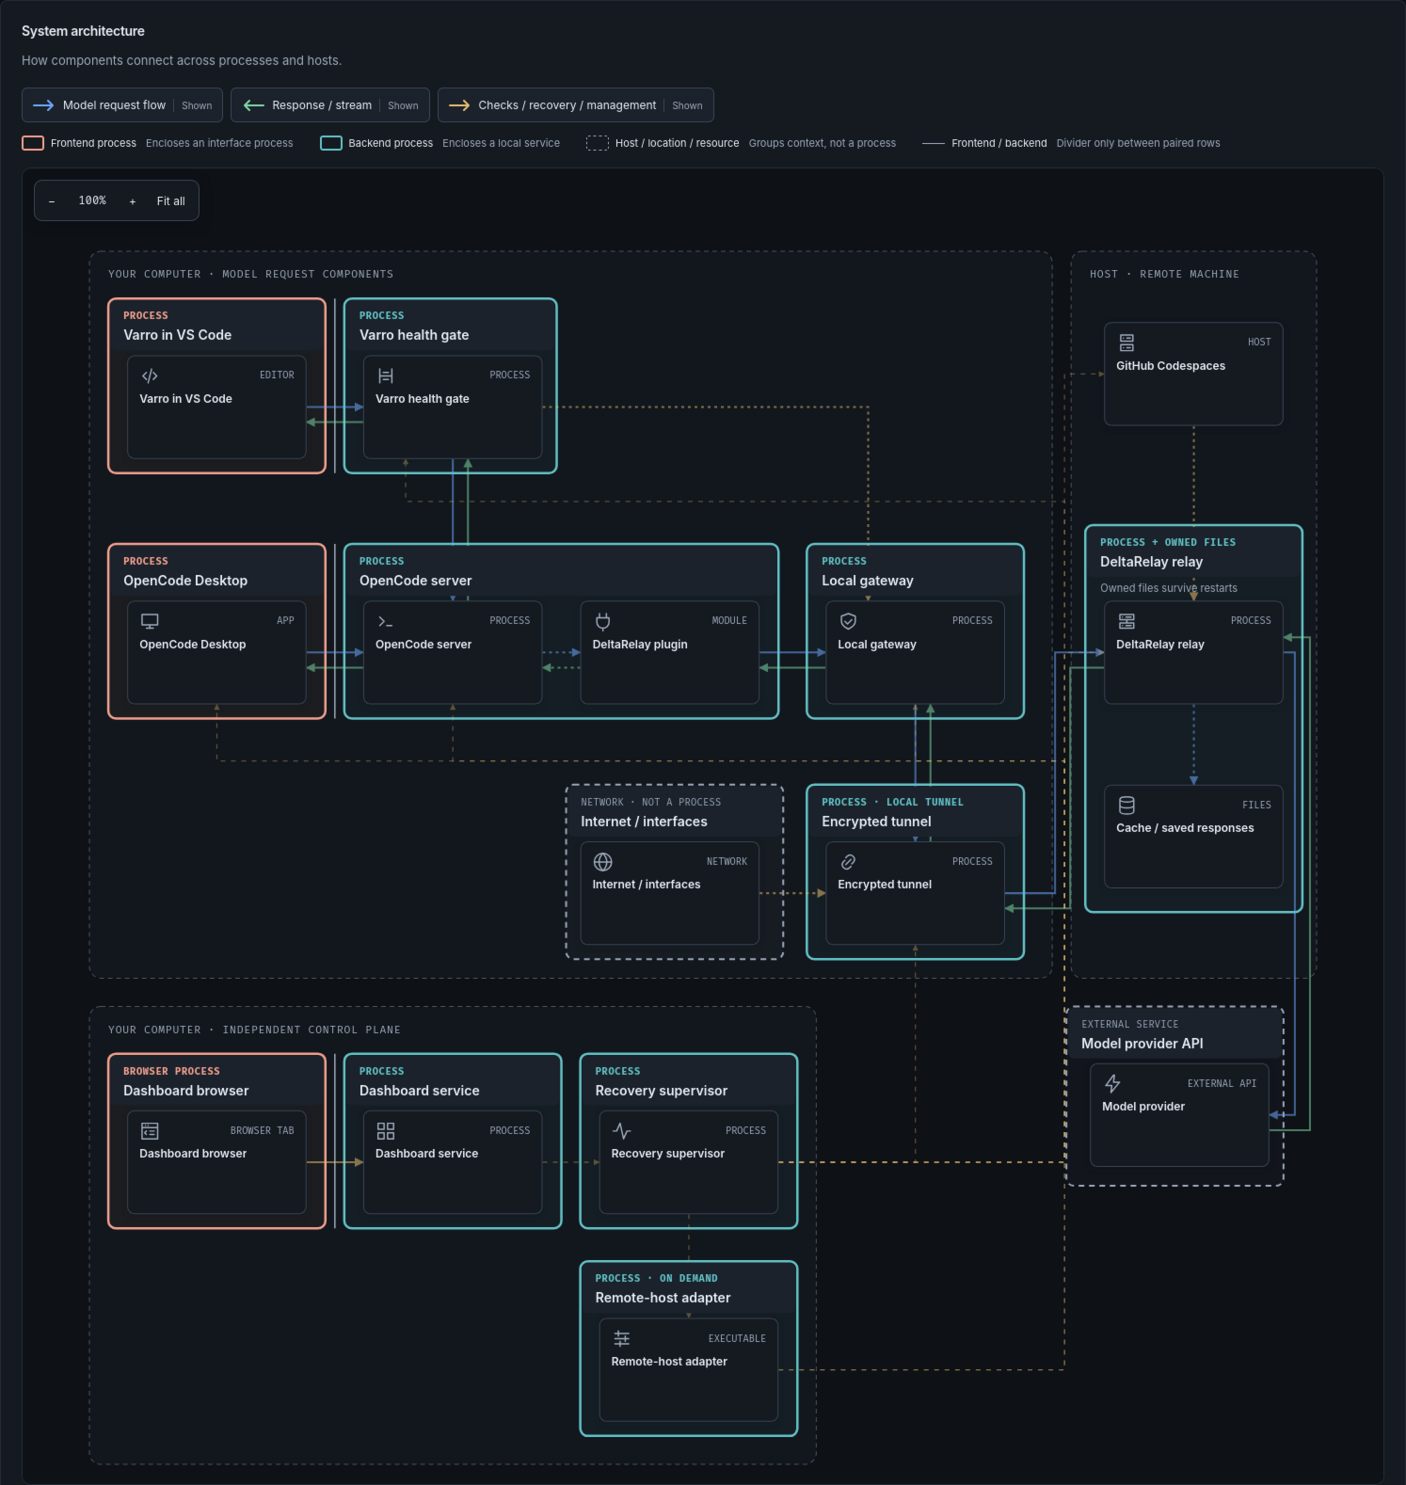
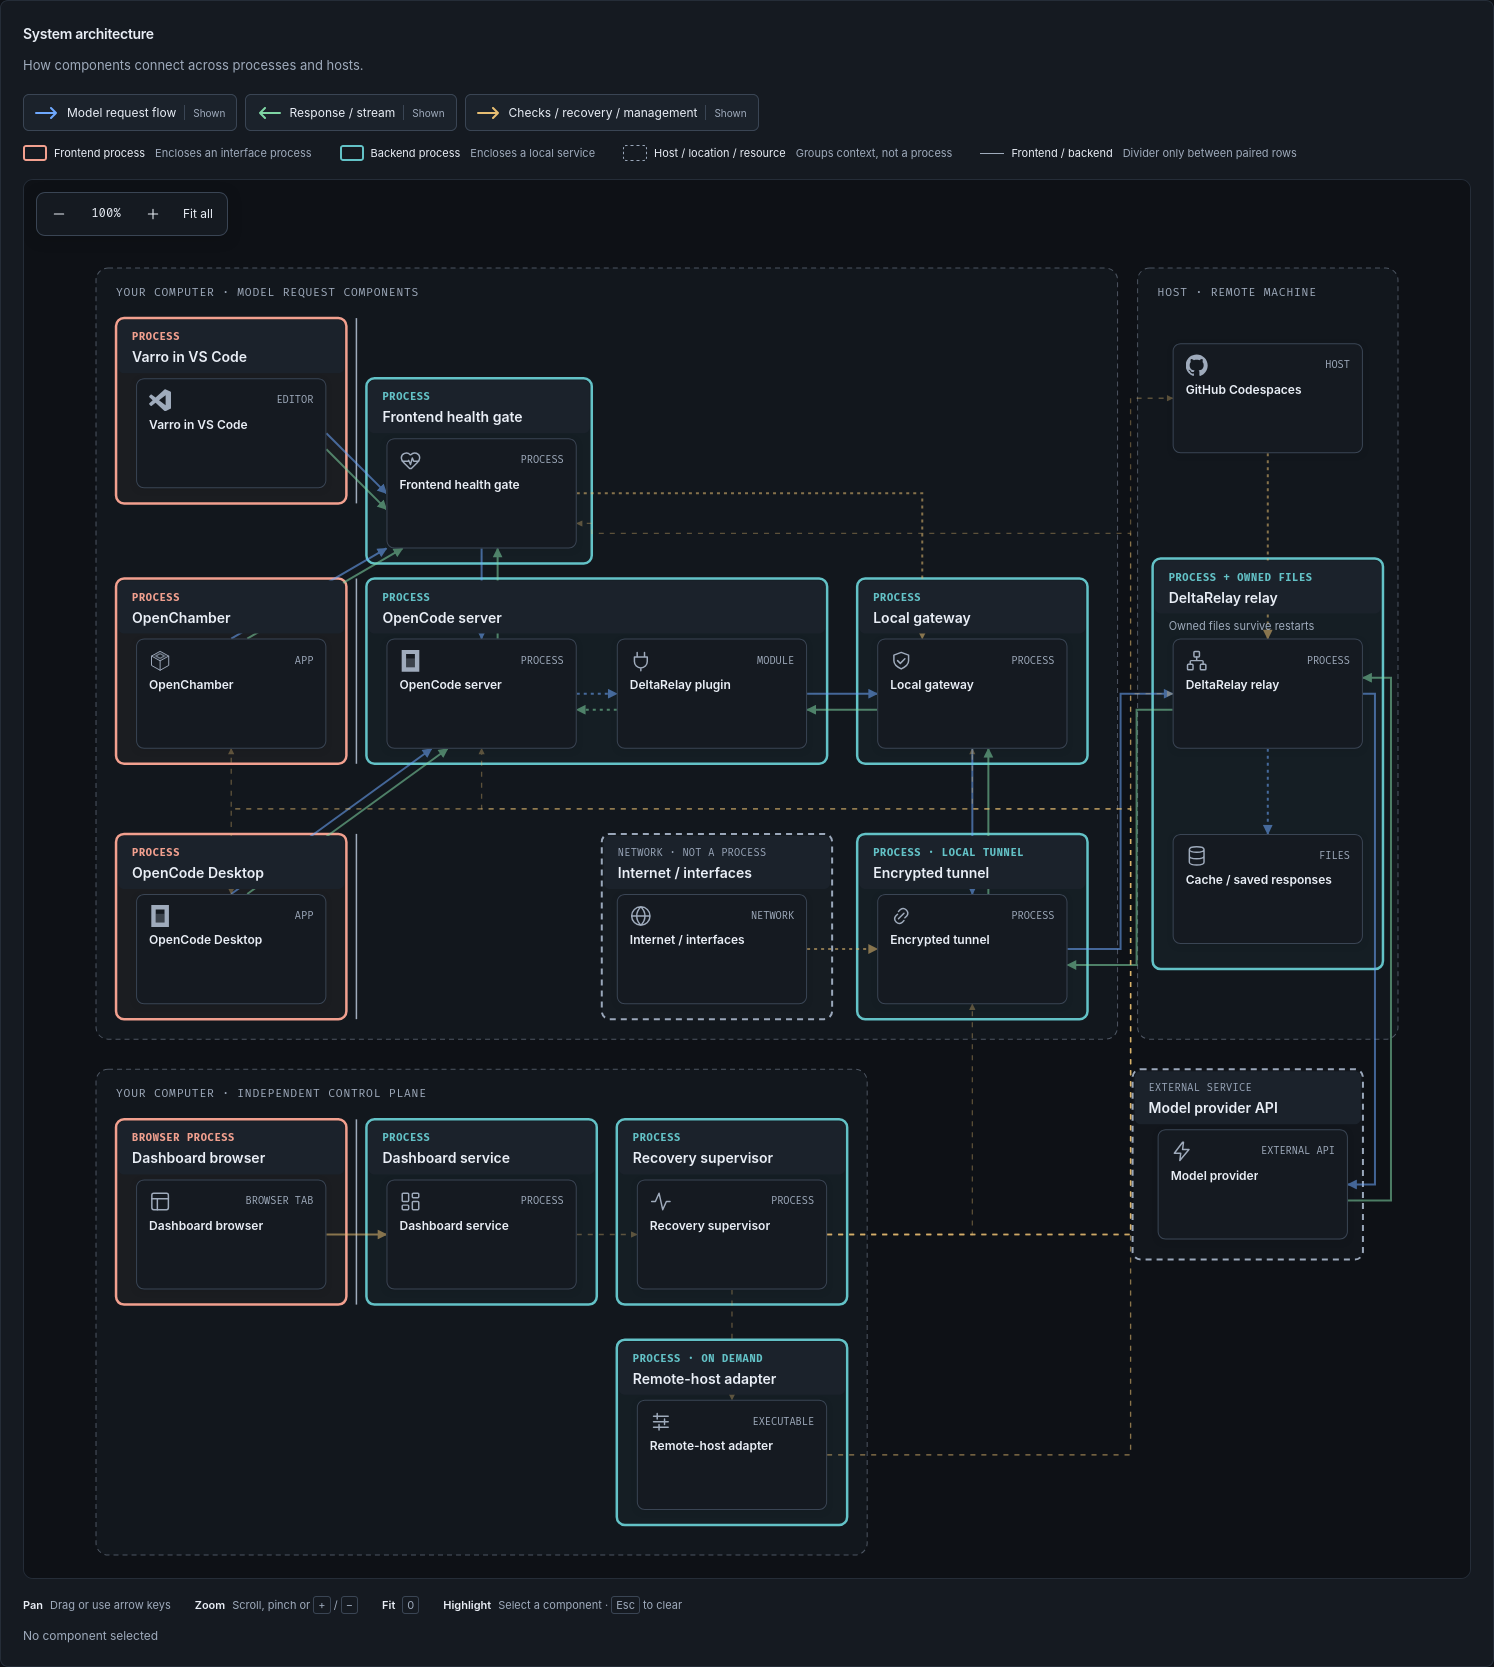
dashboard: place OpenChamber at the health gate
Move OpenChamber into the second frontend row and OpenCode Desktop into the third. Drop the gate 60px so Varro and OpenChamber form the two diagonal attach arrows into it, and reroute the supervisor/check lanes around the new positions. Refresh the architecture capture and update the map path tests for diagonals.

diff --git a/web/src/lib/topology-layout.ts b/web/src/lib/topology-layout.ts
@@ -8,11 +8,11 @@ export const nodeWidth = 190
 export const nodeHeight = 110
 export const mapNodes: { id: NodeID; label: string; icon: import("./icons.js").IconName; role: string; x: number; y: number }[] = [
   { id: "vscode", label: "Varro in VS Code", icon: "vscode", role: "Editor", x: 55, y: 130 },
-  { id: "desktop", label: "OpenCode Desktop", icon: "opencode", role: "App", x: 55, y: 390 },
-  { id: "openchamber", label: "OpenChamber", icon: "openchamber", role: "App", x: 55, y: 645 },
+  { id: "openchamber", label: "OpenChamber", icon: "openchamber", role: "App", x: 55, y: 390 },
+  { id: "desktop", label: "OpenCode Desktop", icon: "opencode", role: "App", x: 55, y: 645 },
   { id: "opencode", label: "OpenCode server", icon: "opencode", role: "Process", x: 305, y: 390 },
   { id: "plugin", label: "DeltaRelay plugin", icon: "plugin", role: "Module", x: 535, y: 390 },
-  { id: "gate", label: "Frontend health gate", icon: "gate", role: "Process", x: 305, y: 130 },
+  { id: "gate", label: "Frontend health gate", icon: "gate", role: "Process", x: 305, y: 190 },
   { id: "gateway", label: "Local gateway", icon: "shield", role: "Process", x: 795, y: 390 },
   { id: "network", label: "Internet / interfaces", icon: "globe", role: "Network", x: 535, y: 645 },
   { id: "tunnel", label: "Connection transport", icon: "link", role: "Transport", x: 795, y: 645 },
@@ -64,11 +64,11 @@ export interface MapBoundary extends BoundaryPresentation {
 // the supervisor manages other processes, but does not contain them.
 export const mapBoundaries: MapBoundary[] = [
   { id: "vscode", kind: "process", label: "PROCESS", title: "Varro in VS Code", detail: "Editor process opened on request. The supervisor never starts it automatically, restarts it, or observes it.", side: "frontend", members: ["vscode"], x: 35, y: 70, width: 230, height: 185 },
-  { id: "desktop", kind: "process", label: "PROCESS", title: "OpenCode Desktop", detail: "Desktop application, separate from the OpenCode server.", side: "frontend", members: ["desktop"], x: 35, y: 330, width: 230, height: 185 },
-  { id: "openchamber", kind: "process", label: "PROCESS", title: "OpenChamber", detail: "Frontend process. Attaches to the shared OpenCode service only through the frontend health gate; attachment is not independently observed.", side: "frontend", members: ["openchamber"], x: 35, y: 585, width: 230, height: 185 },
+  { id: "desktop", kind: "process", label: "PROCESS", title: "OpenCode Desktop", detail: "Desktop application, separate from the OpenCode server.", side: "frontend", members: ["desktop"], x: 35, y: 585, width: 230, height: 185 },
+  { id: "openchamber", kind: "process", label: "PROCESS", title: "OpenChamber", detail: "Frontend process. Attaches to the shared OpenCode service only through the frontend health gate; attachment is not independently observed.", side: "frontend", members: ["openchamber"], x: 35, y: 330, width: 230, height: 185 },
   { id: "opencode", kind: "process", label: "PROCESS", title: "OpenCode server", detail: "The DeltaRelay plugin is loaded inside the OpenCode server process, not a separate process.", side: "backend", members: ["opencode", "plugin"], x: 285, y: 330, width: 460, height: 185 },
   { id: "gateway", kind: "process", label: "PROCESS", title: "Local gateway", detail: "Local authenticated HTTP gateway process.", side: "backend", members: ["gateway"], x: 775, y: 330, width: 230, height: 185 },
-  { id: "gate", kind: "process", label: "PROCESS", title: "Frontend health gate", detail: "Supervised loopback health gate. It never owns or restarts the shared OpenCode service.", side: "backend", members: ["gate"], x: 285, y: 70, width: 225, height: 185 },
+  { id: "gate", kind: "process", label: "PROCESS", title: "Frontend health gate", detail: "Supervised loopback health gate. It never owns or restarts the shared OpenCode service.", side: "backend", members: ["gate"], x: 285, y: 130, width: 225, height: 185 },
   { id: "network", kind: "network", label: "NETWORK · NOT A PROCESS", title: "Internet / interfaces", detail: "Interfaces, routes and connectivity are prerequisites, not a relay process.", members: ["network"], x: 520, y: 585, width: 230, height: 185 },
   { id: "tunnel", ...transportBoundary(), side: "backend", members: ["tunnel"], x: 775, y: 585, width: 230, height: 185 },
   { id: "relay", kind: "process", label: "PROCESS + OWNED FILES", title: "DeltaRelay relay", detail: "The relay process owns the cache and saved-response files. These are persistent files, not a separate process, and survive process restarts.", note: "Owned files survive restarts", side: "backend", members: ["relay", "storage"], x: 1070, y: 310, width: 230, height: 410 },
@@ -104,13 +104,26 @@ export function edgePath(source: NodeID, target: NodeID): string {
   // Management links use the open lanes between boundaries, rather than
   // crossing unrelated process/component cards on the way to their targets.
   if (source === "supervisor") {
-    // The gate sits in the top row: reach it from the right-hand bus and the
-    // lane above the second row, entering left of its data link to OpenCode.
-    if (target === "gate") return `M${a.x + nodeWidth},${ay} H1048 V285 H350 V${b.y + nodeHeight}`
-    if (target === "openchamber") return `M${a.x + nodeWidth},${ay} H1048 V560 H150 V${b.y}`
+    // The gate sits in the top row: reach it from the right-hand bus and enter
+    // its right edge, clear of the attach fan and the gateway check lane.
+    if (target === "gate") return `M${a.x + nodeWidth},${ay} H1048 V285 H510 V275 H495`
+    // OpenChamber is the second-row attach frontend; Desktop is the third-row
+    // direct client. Enter the former from below and the latter from above.
+    if (target === "openchamber") return `M${a.x + nodeWidth},${ay} H1048 V560 H150 V${b.y + nodeHeight}`
+    if (target === "desktop") return `M${a.x + nodeWidth},${ay} H1048 V560 H150 V${b.y}`
     // A shared management lane between the second and third local component rows.
-    if (target === "desktop" || target === "opencode" || target === "gateway") return `M${a.x + nodeWidth},${ay} H1048 V560 H${bx} V${b.y + nodeHeight}`
+    if (target === "opencode" || target === "gateway") return `M${a.x + nodeWidth},${ay} H1048 V560 H${bx} V${b.y + nodeHeight}`
     if (target === "tunnel") return `M${a.x + nodeWidth},${ay} H890 V${b.y + nodeHeight}`
+  }
+  if (source === "vscode" && target === "gate") {
+    // Both attach-only frontends feed the gate: Varro steps down from the row
+    // above and OpenChamber steps up from the row below.
+    return `M${a.x + nodeWidth},${a.y + nodeHeight / 2} L${b.x},${b.y + nodeHeight / 2}`
+  }
+  if (source === "desktop" && target === "opencode") {
+    // Desktop keeps its direct server path as a diagonal below OpenChamber,
+    // instead of sharing the attach frontends' lane.
+    return `M${a.x + nodeWidth / 2},${a.y} L${b.x + 45},${b.y + nodeHeight}`
   }
   if (source === "gate" && target === "gateway") {
     // Health/check dependency, not a model-data hop: cross the open top row and
@@ -118,9 +131,9 @@ export function edgePath(source: NodeID, target: NodeID): string {
     return `M${a.x + nodeWidth},${ay} H840 V${b.y}`
   }
   if (source === "openchamber" && target === "gate") {
-    // The frontend attaches through the shared gate: climb the frontend/backend
-    // divider and enter the gate from below, clear of the editor attach link.
-    return `M${a.x + nodeWidth},${ay} H265 V300 H350 V${b.y + nodeHeight}`
+    // OpenChamber climbs into the gate from below-left, forming the second
+    // diagonal of the attach fan.
+    return `M${a.x + nodeWidth / 2},${a.y} L${b.x},${b.y + nodeHeight}`
   }
   if (source === "tunnel" && target === "relay") {
     // The relay is one row above the transport: climb the gap between the local
@@ -164,10 +177,17 @@ export function responsePath(source: NodeID, target: NodeID): string {
     // and the relay-owned cache files stay clear.
     return `M${a.x + nodeWidth},${a.y + nodeHeight / 2 + lane} H1308 V${b.y + nodeHeight / 2 - lane} H${b.x + nodeWidth}`
   }
+  if (source === "vscode" && target === "gate") {
+    // Return beside the attach diagonal, entering Varro from its right edge.
+    return `M${b.x + nodeWidth},${b.y + nodeHeight / 2 + lane} L${a.x},${a.y + nodeHeight / 2 + lane}`
+  }
+  if (source === "desktop" && target === "opencode") {
+    // Return beside the direct-to-server diagonal, clear of OpenChamber above.
+    return `M${b.x + nodeWidth / 2 + lane},${b.y} L${a.x + 45 + lane},${a.y + nodeHeight}`
+  }
   if (source === "openchamber" && target === "gate") {
-    // Return beside the attach route, following the divider before entering the
-    // frontend from its right edge.
-    return `M${a.x + nodeWidth / 2 + lane},${a.y + nodeHeight} V301 H281 V${b.y + nodeHeight / 2 + lane} H${b.x + nodeWidth}`
+    // Return beside the attach diagonal, entering the gate's lower edge.
+    return `M${b.x + nodeWidth / 2 + lane},${b.y} L${a.x + lane},${a.y + nodeHeight}`
   }
   if (a.y === b.y) return a.x < b.x
     ? `M${a.x + nodeWidth},${ay} H${b.x}`

diff --git a/web/test/topology.test.ts b/web/test/topology.test.ts
@@ -85,7 +85,7 @@ test("transport boundaries describe configured processes versus paths, not readi
 })
 
 test("aligned connection arrows attach to the facing sides in both directions", () => {
-  for (const [source, target] of [["desktop", "opencode"], ["opencode", "desktop"], ["relay", "storage"], ["storage", "relay"]] as const) {
+  for (const [source, target] of [["gate", "opencode"], ["opencode", "gate"], ["relay", "storage"], ["storage", "relay"]] as const) {
     const a = mapNodes.find((node) => node.id === source)!, b = mapNodes.find((node) => node.id === target)!
     const expected = a.y === b.y
       ? `M${a.x + (a.x < b.x ? nodeWidth : 0)},${a.y + nodeHeight / 2} H${b.x + (a.x > b.x ? nodeWidth : 0)}`
@@ -117,7 +117,7 @@ test("OpenChamber is a supervised frontend that attaches only through the shared
   assert.equal(edgeChannel(manage), "control")
 
   const mapped = mapNodes.find((item) => item.id === "openchamber")!
-  assert.deepEqual(mapped, { id: "openchamber", label: "OpenChamber", icon: "openchamber", role: "App", x: 55, y: 645 })
+  assert.deepEqual(mapped, { id: "openchamber", label: "OpenChamber", icon: "openchamber", role: "App", x: 55, y: 390 })
   const boundary = mapBoundaries.find((item) => item.id === "openchamber")!
   assert.equal(boundary.kind, "process")
   assert.equal(boundary.side, "frontend")
@@ -128,7 +128,7 @@ test("OpenChamber is a supervised frontend that attaches only through the shared
 test("frontend divider only spans rows where a frontend sits beside a backend", () => {
   const dividerX = 275
   for (const segment of mapLayerSegments) {
-    const row = mapBoundaries.filter((boundary) => boundary.y === segment.y1 && boundary.y + boundary.height === segment.y2)
+    const row = mapBoundaries.filter((boundary) => boundary.y < segment.y2 && boundary.y + boundary.height > segment.y1)
     assert.ok(row.some((boundary) => boundary.x + boundary.width <= dividerX), `${segment.y1}: frontend side`)
     assert.ok(row.some((boundary) => boundary.x >= dividerX), `${segment.y1}: backend side`)
   }
@@ -158,34 +158,60 @@ test("reflowed map keeps every node, region and routed lane inside its bounds wi
   const value = readContract("topology-v1.json")
   assert.ok(isTopology(value))
   for (const edge of value.edges) {
-    for (const command of edgePath(edge.source, edge.target).matchAll(/([MHV])([\d.]+)(?:,([\d.]+))?/g)) {
-      const x = command[1] === "V" ? null : Number(command[2])
-      const y = command[1] === "H" ? null : Number(command[1] === "M" ? command[3] : command[2])
+    for (const command of edgePath(edge.source, edge.target).matchAll(/([MHVL])([\d.]+)(?:,([\d.]+))?/g)) {
+      const type = command[1]
+      const x = type === "V" ? null : Number(command[2])
+      const y = type === "H" ? null : Number(type === "M" || type === "L" ? command[3] : command[2])
       if (x !== null) assert.ok(x >= 0 && x <= mapWidth, `${edge.id} x=${x}`)
       if (y !== null) assert.ok(y >= 0 && y <= mapHeight, `${edge.id} y=${y}`)
     }
   }
-  assert.equal(edgePath("vscode", "gate"), `M${55 + nodeWidth},${130 + nodeHeight / 2} H305`)
-  assert.equal(edgePath("gate", "opencode"), `M${305 + nodeWidth / 2},${130 + nodeHeight} V390`)
-  assert.equal(edgePath("gate", "gateway"), `M${305 + nodeWidth},${130 + nodeHeight / 2} H840 V390`)
-  assert.equal(edgePath("supervisor", "gate"), `M${555 + nodeWidth},${930 + nodeHeight / 2} H1048 V285 H350 V${130 + nodeHeight}`)
-  assert.equal(edgePath("supervisor", "openchamber"), `M${555 + nodeWidth},${930 + nodeHeight / 2} H1048 V560 H150 V645`)
-  assert.equal(edgePath("openchamber", "gate"), `M${55 + nodeWidth},${645 + nodeHeight / 2} H265 V300 H350 V${130 + nodeHeight}`)
-  assert.equal(responsePath("openchamber", "gate"), `M${305 + nodeWidth / 2 + 16},${130 + nodeHeight} V301 H281 V${645 + nodeHeight / 2 + 16} H${55 + nodeWidth}`)
+  assert.equal(edgePath("vscode", "gate"), `M${55 + nodeWidth},${130 + nodeHeight / 2} L305,${190 + nodeHeight / 2}`)
+  assert.equal(edgePath("gate", "opencode"), `M${305 + nodeWidth / 2},${190 + nodeHeight} V390`)
+  assert.equal(edgePath("gate", "gateway"), `M${305 + nodeWidth},${190 + nodeHeight / 2} H840 V390`)
+  assert.equal(edgePath("supervisor", "gate"), `M${555 + nodeWidth},${930 + nodeHeight / 2} H1048 V285 H510 V275 H495`)
+  assert.equal(edgePath("supervisor", "openchamber"), `M${555 + nodeWidth},${930 + nodeHeight / 2} H1048 V560 H150 V${390 + nodeHeight}`)
+  assert.equal(edgePath("supervisor", "desktop"), `M${555 + nodeWidth},${930 + nodeHeight / 2} H1048 V560 H150 V645`)
+  assert.equal(edgePath("openchamber", "gate"), `M${55 + nodeWidth / 2},390 L305,${190 + nodeHeight}`)
+  assert.equal(edgePath("desktop", "opencode"), `M${55 + nodeWidth / 2},645 L${305 + 45},${390 + nodeHeight}`)
+  assert.equal(responsePath("vscode", "gate"), `M${55 + nodeWidth},${130 + nodeHeight / 2 + 16} L305,${190 + nodeHeight / 2 + 16}`)
+  assert.equal(responsePath("openchamber", "gate"), `M${55 + nodeWidth / 2 + 16},390 L${305 + 16},${190 + nodeHeight}`)
+  assert.equal(responsePath("desktop", "opencode"), `M${55 + nodeWidth / 2 + 16},645 L${305 + 45 + 16},${390 + nodeHeight}`)
 })
 
 test("map arrows never cross unrelated component cards or process boundaries", () => {
   const value = readContract("topology-v1.json")
   assert.ok(isTopology(value))
   type Point = { x: number; y: number }
-  const crosses = (a: Point, b: Point, rect: { x: number; y: number; width: number; height: number }) => a.x === b.x
-    ? a.x > rect.x && a.x < rect.x + rect.width && Math.max(a.y, b.y) > rect.y && Math.min(a.y, b.y) < rect.y + rect.height
-    : a.y > rect.y && a.y < rect.y + rect.height && Math.max(a.x, b.x) > rect.x && Math.min(a.x, b.x) < rect.x + rect.width
+  // Liang–Barsky segment/AABB clip; touching an edge counts as crossing, while
+  // source and target boundaries are filtered out below.
+  const crosses = (a: Point, b: Point, rect: { x: number; y: number; width: number; height: number }) => {
+    const dx = b.x - a.x, dy = b.y - a.y
+    const p = [-dx, dx, -dy, dy]
+    const q = [a.x - rect.x, rect.x + rect.width - a.x, a.y - rect.y, rect.y + rect.height - a.y]
+    let t0 = 0, t1 = 1
+    for (let index = 0; index < 4; index++) {
+      if (p[index] === 0) {
+        if (q[index]! < 0) return false
+      } else {
+        const t = q[index]! / p[index]!
+        if (p[index]! < 0) {
+          if (t > t1) return false
+          if (t > t0) t0 = t
+        } else {
+          if (t < t0) return false
+          if (t < t1) t1 = t
+        }
+      }
+    }
+    return true
+  }
   for (const edge of value.edges) {
     let previous: Point = { x: 0, y: 0 }
-    for (const command of edgePath(edge.source, edge.target).matchAll(/([MHV])([\d.]+)(?:,([\d.]+))?/g)) {
-      const point = { x: command[1] === "V" ? previous.x : Number(command[2]), y: command[1] === "M" ? Number(command[3]) : command[1] === "V" ? Number(command[2]) : previous.y }
-      if (command[1] !== "M") {
+    for (const command of edgePath(edge.source, edge.target).matchAll(/([MHVL])([\d.]+)(?:,([\d.]+))?/g)) {
+      const type = command[1]
+      const point = { x: type === "V" ? previous.x : Number(command[2]), y: type === "H" ? previous.y : Number(type === "M" || type === "L" ? command[3] : command[2]) }
+      if (type !== "M") {
         for (const node of mapNodes.filter((node) => node.id !== edge.source && node.id !== edge.target)) {
           assert.equal(crosses(previous, point, { ...node, width: nodeWidth, height: nodeHeight }), false, `${edge.id} crosses ${node.id}`)
         }

diff --git a/docs/images/README.md b/docs/images/README.md
@@ -1,7 +1,8 @@
 # README dashboard captures
 
-These PNGs are cropped captures of the running local DeltaRelay dashboard taken
-on November 12, 2026 (local time), not mockups or synthetic test data.
+These PNGs are cropped captures of the running local DeltaRelay dashboard, not
+mockups or synthetic test data. The savings capture is from November 12, 2026;
+the architecture capture was refreshed on November 18, 2026 (local time).
 
 - `dashboard-savings.png`: Overview upload-composition and cache-reuse panels,
   with the **Last 7 days** range selected. Values are rounded by the dashboard.
@@ -9,11 +10,11 @@ on November 12, 2026 (local time), not mockups or synthetic test data.
   requests only and retains its failed/cancelled counts. Cache reuse and
   encoded-upload reduction are different measurements.
 - `dashboard-architecture.png`: the read-only **Architecture** view under System
-  controls, including its legend and the Varro/VS Code health-gate path. It shows
-  live supervisor topology, but lifecycle status and actions live on the
-  **Controls** tab. The map viewport was laid out to fit the complete map, then
-  cropped to exclude the page header and unrelated controls. No topology or
-  connection state was edited.
+  controls, including its legend and the OpenChamber / Varro in VS Code
+  health-gate fan. It shows live supervisor topology, but lifecycle status and
+  actions live on the **Controls** tab. The map viewport was laid out to fit the
+  complete map, then cropped to exclude the page header and unrelated controls.
+  No topology or connection state was edited.
 
 Only aggregate traffic and component labels are included—no prompts, session
 identifiers, host addresses, credentials, or account metadata. These are fixed

diff --git a/README.md b/README.md
@@ -150,9 +150,9 @@ and [retention and limits](docs/PROTOCOL.md#6-retention-and-limits).
 
 ### Local workspace, remote relay, and controls
 
-![Actual dashboard architecture map showing Varro in VS Code and its health gate, local OpenCode components, encrypted tunnel, remote relay and storage, model provider, and the independent dashboard and recovery control plane.](docs/images/dashboard-architecture.png)
+![Actual dashboard architecture map showing OpenChamber and Varro in VS Code attaching through their shared frontend health gate, local OpenCode components, encrypted tunnel, remote relay and storage, model provider, and the independent dashboard and recovery control plane.](docs/images/dashboard-architecture.png)
 
-Actual dashboard architecture view captured November 12, 2026 (local time),
+Actual dashboard architecture view captured November 18, 2026 (local time),
 using GitHub Codespaces as the remote host. It is a read-only map of live
 supervisor topology: selecting a component highlights its connections, while
 lifecycle state and actions are on the **Controls** tab. The map distinguishes
